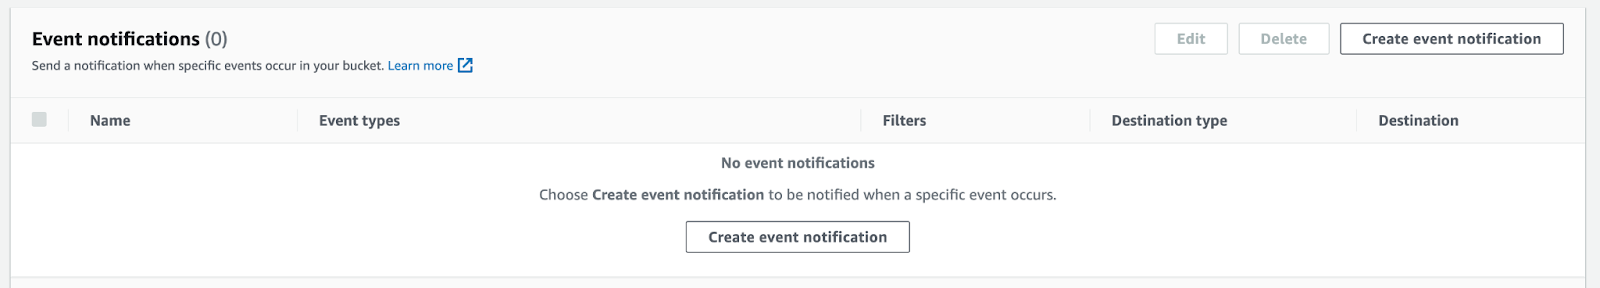
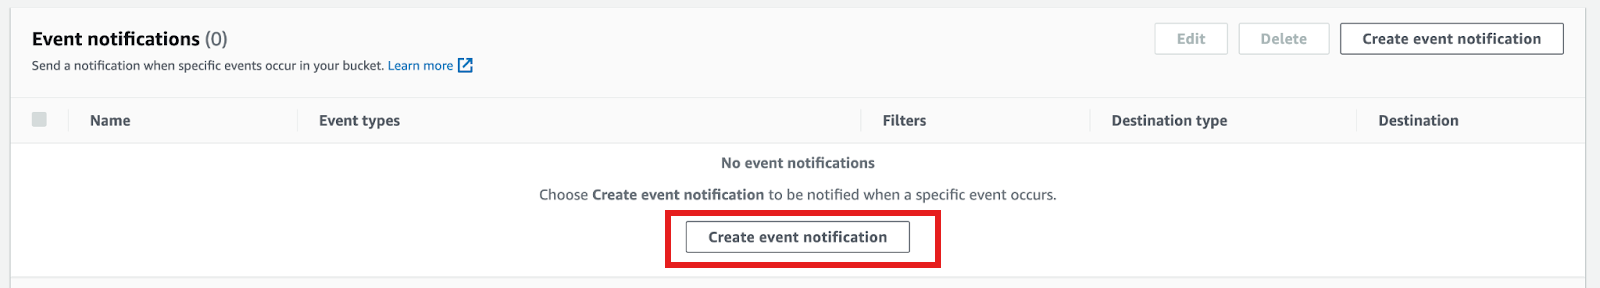
adding more clarity to screenshots

Changed region(s): [[0.4062, 0.7188, 0.5938, 0.9375]]

diff --git a/site/sfguides/src/s3_access_logs_ingestion/s3_access_logs_ingestion.md b/site/sfguides/src/s3_access_logs_ingestion/s3_access_logs_ingestion.md
@@ -253,9 +253,9 @@ Fill out below items
 - SQS: Select “Add SQS queue ARN” from the dropdown list.
 - SQS queue ARN: Paste the SQS queue name from the SHOW PIPES output.
 
-![Screenshot of create event notification form in AWS console](assets/generic-s3-crate-event-notification.png)
+![Screenshot of create event notification form in AWS console](assets/generic-s3-create-event-notification.png)
 
-![Screenshot of destination configuration in create event notification form in AWS console](assets/generic-s3-crate-event-notification-destination.png)
+![Screenshot of destination configuration in create event notification form in AWS console](assets/generic-s3-create-event-notification-destination.png)
 
 Event notification has been created
 ![Screenshot of event notifications dashboard with created notification in AWS](assets/generic-s3-event-notifications-filled.png)
